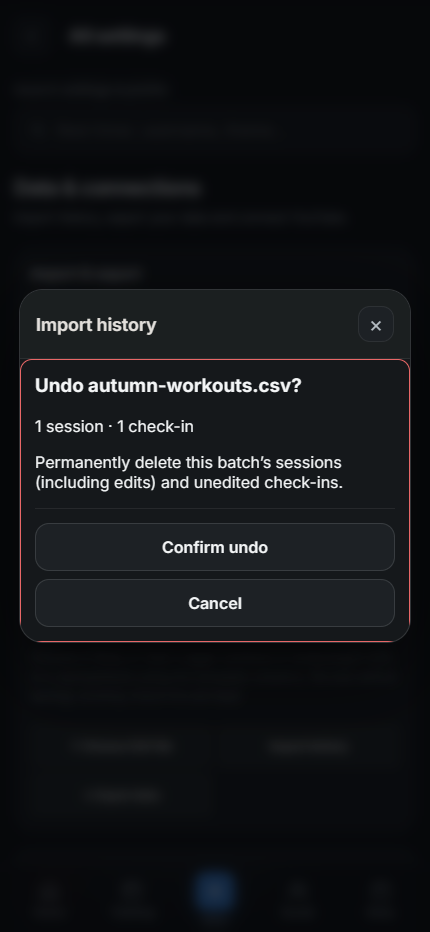
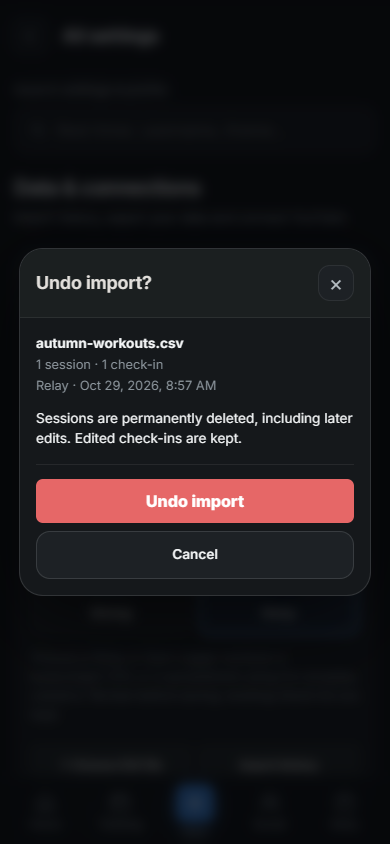
Tidy import history and align tests with batch undo
Inset import history rows with dividers, combine counts and source/time
into muted lines, and replace the red-bordered inline confirmation with an
Undo import? view whose destructive action uses the theme danger colour.
Update the CSV import summary and Alembic head tests for batch tracking,
and refresh the 1.1.0 undo screenshot.

diff --git a/frontend/src/ImportBatchHistory.tsx b/frontend/src/ImportBatchHistory.tsx
@@ -1,7 +1,27 @@
 import { useState } from 'react';
 import { api } from './api';
 import { PopupDialog } from './PopupDialog';
+import { IMPORT_APPS } from './WorkoutImportSource';
 import type { ImportBatch } from './types';
+
+function counts(batch: ImportBatch) {
+  return [
+    batch.workouts && `${batch.workouts} ${batch.workouts === 1 ? 'session' : 'sessions'}`,
+    batch.body_measurements &&
+      `${batch.body_measurements} ${batch.body_measurements === 1 ? 'check-in' : 'check-ins'}`,
+  ]
+    .filter(Boolean)
+    .join(' · ');
+}
+
+function details(batch: ImportBatch) {
+  const source = IMPORT_APPS.find((app) => app.id === batch.source)?.name ?? batch.source;
+  const time = new Date(batch.created_at).toLocaleString(undefined, {
+    dateStyle: 'medium',
+    timeStyle: 'short',
+  });
+  return `${source} · ${time}`;
+}
 
 export function ImportBatchHistory({ onUndo }: { onUndo: (id: string) => Promise<void> }) {
   const [batches, setBatches] = useState<ImportBatch[] | null>(null);
@@ -49,7 +69,8 @@ export function ImportBatchHistory({ onUndo }: { onUndo: (id: string) => Promise
       </button>
       {open && (
         <PopupDialog
-          title="Import history"
+          title={selected ? 'Undo import?' : 'Import history'}
+          className="import-history-dialog"
           onClose={() => {
             if (!busy) {
               setOpen(false);
@@ -57,73 +78,77 @@ export function ImportBatchHistory({ onUndo }: { onUndo: (id: string) => Promise
             }
           }}
         >
-          {loading ? (
-            <p role="status">Loading imports…</p>
-          ) : !selected ? (
-            <>
-              {batches?.length === 0 && (
-                <p>No tracked imports yet. Earlier imports cannot be undone as a batch.</p>
-              )}
+          <div className="import-history">
+            {loading ? (
+              <p role="status" className="import-history-muted">
+                Loading imports…
+              </p>
+            ) : selected ? (
+              <div className="import-undo-confirm" role="group" aria-label="Confirm undo import">
+                <div className="import-batch-info">
+                  <strong>{selected.file_name}</strong>
+                  <span>{counts(selected) || 'Nothing left to remove'}</span>
+                  <span>{details(selected)}</span>
+                </div>
+                <p>
+                  {selected.workouts > 0 &&
+                    'Sessions are permanently deleted, including later edits. '}
+                  {selected.body_measurements > 0 && 'Edited check-ins are kept.'}
+                </p>
+                <div className="popup-dialog-actions">
+                  <button type="button" disabled={busy} onClick={() => setSelected(null)}>
+                    Cancel
+                  </button>
+                  <button
+                    type="button"
+                    className="popup-primary-action import-undo-action"
+                    disabled={busy}
+                    onClick={() => void undo()}
+                  >
+                    {busy ? 'Undoing…' : 'Undo import'}
+                  </button>
+                </div>
+              </div>
+            ) : batches?.length === 0 ? (
+              <p className="import-history-muted">
+                No tracked imports yet. Earlier imports cannot be undone as a batch.
+              </p>
+            ) : (
               <ul className="import-batches" aria-label="Import batches">
                 {batches?.map((batch) => (
                   <li key={batch.id}>
-                    <strong>{batch.file_name}</strong>
-                    <span>
-                      {new Date(batch.created_at).toLocaleString()} ·{' '}
-                      {batch.source === 'gym' ? 'Relay / spreadsheet' : batch.source}
-                    </span>
-                    <span>
-                      {batch.workouts} {batch.workouts === 1 ? 'session' : 'sessions'} ·{' '}
-                      {batch.body_measurements}{' '}
-                      {batch.body_measurements === 1 ? 'check-in' : 'check-ins'}
-                    </span>
+                    <div className="import-batch-info">
+                      <strong>{batch.file_name}</strong>
+                      <span>{counts(batch) || 'Nothing left to remove'}</span>
+                      <span>{details(batch)}</span>
+                    </div>
                     <button
                       type="button"
+                      aria-label={`Undo ${batch.file_name}`}
                       disabled={busy}
                       onClick={() => {
                         setSelected(batch);
                         setError(null);
+                        setNotice(null);
                       }}
                     >
-                      Undo import
+                      Undo
                     </button>
                   </li>
                 ))}
               </ul>
-            </>
-          ) : null}
-          {selected && (
-            <div className="import-undo-confirm" role="group" aria-label="Confirm undo import">
-              <h3>Undo {selected.file_name}?</h3>
-              <p>
-                {selected.workouts} {selected.workouts === 1 ? 'session' : 'sessions'} ·{' '}
-                {selected.body_measurements}{' '}
-                {selected.body_measurements === 1 ? 'check-in' : 'check-ins'}
+            )}
+            {error && (
+              <p role="alert" className="inline-error">
+                {error}
               </p>
-              <p>
-                Permanently delete this batch’s sessions (including edits) and unedited check-ins.
+            )}
+            {notice && (
+              <p role="status" className="import-history-muted">
+                {notice}
               </p>
-              <div className="popup-dialog-actions">
-                <button type="button" disabled={busy} onClick={() => setSelected(null)}>
-                  Cancel
-                </button>
-                <button
-                  type="button"
-                  className="danger"
-                  disabled={busy}
-                  onClick={() => void undo()}
-                >
-                  {busy ? 'Undoing…' : 'Confirm undo'}
-                </button>
-              </div>
-            </div>
-          )}
-          {error && (
-            <p role="alert" className="inline-error">
-              {error}
-            </p>
-          )}
-          {notice && <p role="status">{notice}</p>}
+            )}
+          </div>
         </PopupDialog>
       )}
     </>

diff --git a/frontend/src/importReview.css b/frontend/src/importReview.css
@@ -27,32 +27,59 @@
 .import-mapping > button {
   margin-top: 12px;
 }
-.import-batches {
-  list-style: none;
-  padding: 0;
-  display: grid;
-  gap: 12px;
-}
-.import-batches li {
-  display: grid;
-  gap: 8px;
-  padding: 14px;
-  border: 1px solid var(--line);
-  border-radius: 12px;
-}
-.import-batches strong {
-  overflow-wrap: anywhere;
-}
-.import-batches span {
+.import-history {
+  padding: 0.25rem 1rem 1rem;
   font-size: 0.85rem;
+  line-height: 1.45;
+}
+.import-history-muted {
   color: var(--muted-ink);
 }
-.import-undo-confirm {
-  padding: 14px;
-  border: 1px solid var(--danger, #e86767);
-  border-radius: 12px;
+.import-batches {
+  list-style: none;
+  margin: 0;
+  padding: 0;
 }
-.import-undo-confirm h3 {
-  margin-top: 0;
+.import-batches li {
+  display: flex;
+  align-items: center;
+  gap: 0.75rem;
+  padding: 0.85rem 0;
+}
+.import-batches li + li {
+  border-top: 1px solid var(--p-line);
+}
+.import-batch-info {
+  display: grid;
+  flex: 1;
+  gap: 0.15rem;
+  min-width: 0;
+}
+.import-batch-info strong {
   overflow-wrap: anywhere;
+}
+.import-batch-info span {
+  color: var(--muted-ink);
+  font-size: 0.8rem;
+}
+.import-batches button {
+  flex: none;
+  min-height: 2.5rem;
+  border: 1px solid var(--p-line-strong);
+  border-radius: 12px;
+  padding: 0.5rem 0.9rem;
+  background: var(--p-surface-2);
+  color: var(--p-ink);
+  font-weight: 600;
+}
+.import-undo-confirm {
+  padding-top: 0.75rem;
+}
+.import-undo-confirm > p {
+  margin: 0.85rem 0 0;
+}
+.popup-dialog-actions .popup-primary-action.import-undo-action {
+  border: 0;
+  background: var(--p-danger);
+  color: #fff;
 }

diff --git a/frontend/src/ImportBatchHistory.test.tsx b/frontend/src/ImportBatchHistory.test.tsx
@@ -55,11 +55,11 @@ it('loads batches on demand, cancels safely, and removes only the confirmed batc
   const onUndo = vi.fn().mockResolvedValue(undefined);
   click(render(onUndo), 'Import history');
   await vi.waitFor(() => expect(hooks.values[0]).not.toBeNull());
-  click(render(onUndo), 'Undo import');
+  click(render(onUndo), 'Undo');
   click(render(onUndo), 'Cancel');
   expect(onUndo).not.toHaveBeenCalled();
+  click(render(onUndo), 'Undo');
   click(render(onUndo), 'Undo import');
-  click(render(onUndo), 'Confirm undo');
   await vi.waitFor(() => expect(onUndo).toHaveBeenCalledWith('one'));
   expect(hooks.values[0]).toEqual([{ ...batch, id: 'two', file_name: 'other.csv' }]);
 });
@@ -69,8 +69,8 @@ it('keeps the batch and shows a retryable undo error', async () => {
   const onUndo = vi.fn().mockRejectedValue(new Error('Could not undo.'));
   click(render(onUndo), 'Import history');
   await vi.waitFor(() => expect(hooks.values[0]).not.toBeNull());
+  click(render(onUndo), 'Undo');
   click(render(onUndo), 'Undo import');
-  click(render(onUndo), 'Confirm undo');
   await vi.waitFor(() =>
     expect(render(onUndo).find((node) => node.props.role === 'alert')?.props.children).toBe(
       'Could not undo.',

diff --git a/backend/tests/test_multi_user_auth_migration.py b/backend/tests/test_multi_user_auth_migration.py
@@ -258,7 +258,7 @@ def test_alembic_upgrade_head_works_on_an_empty_database(tmp_path):
     engine = create_engine(f"sqlite:///{database.as_posix()}")
     with engine.connect() as connection:
         assert connection.scalar(text("SELECT version_num FROM alembic_version")) == (
-            "0041_workout_comments"
+            "0044_import_batches"
         )
         tables = set(inspect(connection).get_table_names())
         assert {"users", "user_sessions", "user_settings", "exercises", "account_backups"} <= tables

diff --git a/backend/tests/test_tracker.py b/backend/tests/test_tracker.py
@@ -706,7 +706,9 @@ def test_csv_import_and_export_use_supplied_column_format(client):
     exported = client.get("/api/workouts/export.csv")
 
     assert imported.status_code == 201
-    assert imported.json() == {
+    summary = imported.json()
+    assert summary.pop("batch_id")
+    assert summary == {
         "workouts_created": 1,
         "workouts_skipped": 0,
         "exercises_created": 1,
